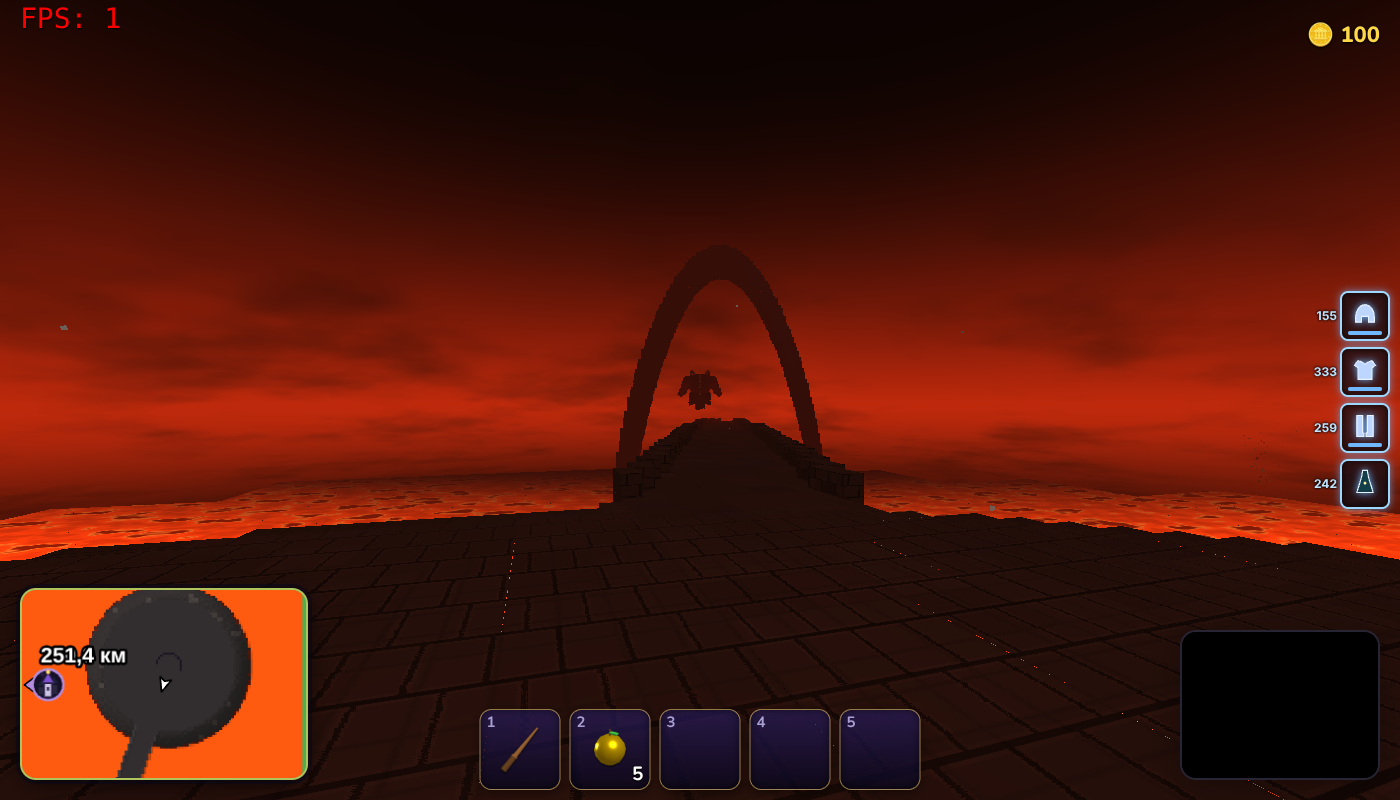
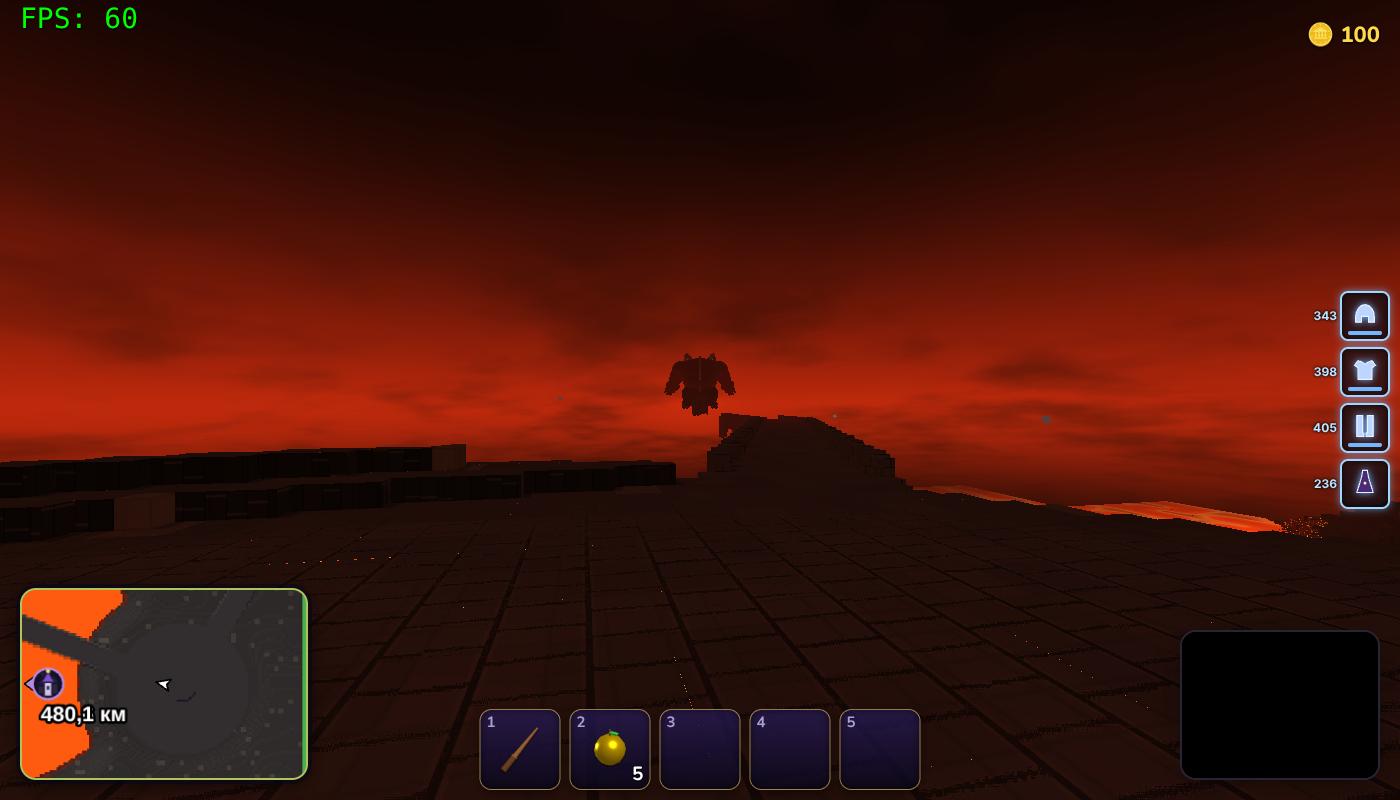
Дьяволос: ад без края — загружен в 4 км от котловины; новый снимок с плато прибытия (750 м)
Claude-Session: https://claude.ai/code/session_01Mpy7conc3GY2y3zL4LDFSX

diff --git a/src/game/Diabolos.js b/src/game/Diabolos.js
@@ -37,6 +37,7 @@ const r2 = (x) => Math.round(x * 100) / 100;
 const clamp = (x, a, b) => Math.max(a, Math.min(b, x));
 const ID = 'diabolos';
 const NET_DT = 0.2;      // с между строками состояния хоста
+const SEEN_R = 4000;     // м: в аду ближе этого — загружен (виден с плато прибытия и издали; ад теперь без края — дальше не держим)
 const PROXY_D = 640;     // м: дальше от камеры — рисуется ближе и меньше в ту же сторону (тот же угол; дальняя плоскость камеры 1000 м)
 const POSE_FAR = 420;    // м: дальше — поза реже
 const CHAIN_NEAR = 520;  // м: дальше цепь не считается (лежит, как легла)
@@ -182,7 +183,7 @@ export class Diabolos {
         if (!this.site) return;
         const ps = this._players();
         let near = Infinity;
-        for (const q of ps) near = Math.min(near, inHell(q.p.x, q.p.z) ? 0 : Math.hypot(q.p.x - this.site.x, q.p.z - this.site.z)); // (в аду — виден отовсюду: гора в 122 м над дымкой; автор не нашёл его с плато прибытия в 1250 м)
+        for (const q of ps) { const dd = Math.hypot(q.p.x - this.site.x, q.p.z - this.site.z); near = Math.min(near, inHell(q.p.x, q.p.z) && dd < SEEN_R ? 0 : dd); } // (в аду — виден отовсюду: гора в 122 м над дымкой; автор не нашёл его с плато прибытия в 1250 м)
         if (g.isDeadLocal && !ps.length && this.d) near = Infinity;
         if (this._remains) { if (near > DEVIL.ACTIVE_R * 1.15) this._unload(); return; } // (убит: только цепь, якорь, сундуки)
         if (!this.d) { if (near < DEVIL.ACTIVE_R && (this.site.y != null || Number.isFinite(this._ground(this.site.x, this.site.z, NaN)))) this._load(); else return; }

diff --git a/CLAUDE.md b/CLAUDE.md
@@ -264,7 +264,7 @@
 Автор: «ОГРОМНЫЙ ДЬЯВОЛ… как страшный монстр, но В 5 РАЗ БОЛЬШЕ… ОГРОМНЫЕ РОГА, КОПЫТА… (позже автор: «немного более худой — накачанный, но массивный»)… одно копыто ПРИКОВАНО цепью… обычно СИДИТ И СПИТ… потревожили — ходит, но цепь держит, он ЗЛИТСЯ… БЕССМЕРТЕН, даже «Дай» не берёт (он его создал)… огонь в 5 раз больше и длиннее драконьего… ШАРЫ ОГНЯ ЛОМАЮТ Protection и Protection Maxima: тебе ничего, но защита сломана — каждый раз заново»; «до 20 анимаций с мимикой… интересный ПЕРСОНАЖ… высовывает язык и троллит».
 - Файлы: `DiabolosRules.js` (числа `DEVIL`, `WAKE`, `MOVES`/`MOVE_IDS`, `FIRE`, `BALL`, цепь `ChainRope` + `leash`, `wakes`, `chooseMove`, бессмертие `DEVIL_VS`/`devilVerdict`, щит `ballVerdict`, место `seatFrom`), `Diabolos.js` (`g.diabolos`: сон/пробуждение/ходьба `crowdStep`, ходы, струя, шары, по мне — `_meSlam/_meBall/_hurtFire`, хват, сеть `dvl`/`dvb`, сохранение `woke`), `DiabolosActs.js` (характер: 26 поступков `ACTS`/`ACT_IDS` — только дописывать, ситуации `SITUATIONS`, `pickAct`, мимика `moodFace/moveFace`), `entities/DiabolosModel.js` (модель на `FarShape`: кожа-шейдер с трещинами жара, «твёрдое», свечение — 3 отрисовки; цепь `InstancedMesh` + якорь = 5; лицо: брови, веки каждого глаза, зрачки, уши, верхняя губа-оскал, ноздри, раздвоенный язык из 3 суставов), `audio/DiabolosSounds.js` (заранее, `SoundManager.playDevil`, тема — `devilTheme`).
 - Мерки: монстр пентаграммы ×5 — 122,5 м до макушки (рога до ~134 м), накачанный и массивный (пресс кубиками, талия уже плеч), тело 21 м (корпус 23 м), группа ×35 от формы ростом 3,5. Струя: дракон силы 1 × 5 = 115 м, у конца 23 м. Шар Ø 6 м, 28–38 м/с, взрыв 14 м. Цепь 44 звена по 3,6 м (шаг 1,82), ход 70 м от столба.
-- Место — `HellMap.hellPlan`: `devilSeat` (котловина r 90), столб цепи в середине (`chainAnchor`) — сидит в 40 м от столба лицом к дороге прибытия (`seatFrom`, `SEAT_OFF`); пока кто-то в аду — загружен всегда (жалоба автора «не нашёл Дьявола»: плато прибытия в 1250 м, было 900), иначе выгружен; пол до воркеров — слой плана + 1. Виден издали: дальше 640 м от камеры рисуется ближе и меньше под тем же углом (`Diabolos._farProxy`, дальняя плоскость камеры 1000 м), туман на нём тоньше и не глухой (`devilFar`, `uSeeFar` 1900 м). Снимок в игре: `node tools/devil-arrival-screenshot.mjs` (ZNS_CHROME=/opt/pw-browsers/chromium-1243/chrome-linux64/chrome).
+- Место — `HellMap.hellPlan`: `devilSeat` (котловина r 90), столб цепи в середине (`chainAnchor`) — сидит в 40 м от столба лицом к дороге прибытия (`seatFrom`, `SEAT_OFF`); пока кто-то в аду ближе 4 км (`SEEN_R`) — загружен (жалоба автора «не нашёл Дьявола»: плато прибытия было в 1250 м, он грузился с 900; теперь прибытие в 600–1000 м), иначе выгружен; пол до воркеров — слой плана + 1. Виден издали: дальше 640 м от камеры рисуется ближе и меньше под тем же углом (`Diabolos._farProxy`, дальняя плоскость камеры 1000 м), туман на нём тоньше и не глухой (`devilFar`, `uSeeFar` 1900 м). Снимок в игре: `node tools/devil-arrival-screenshot.mjs` (ZNS_CHROME=/opt/pw-browsers/chromium-1243/chrome-linux64/chrome).
 - Убить можно ТОЛЬКО божественным мечом (тайна игры; меч — `DivineSword.js`, другая сессия): `g.diabolos.bladeHit(a, b)` → точка касания лезвия/пути меча, `pierce(point, by, {via: 'hand'|'swarm'})` — хост; гость шлёт `pierce`. Смерть 20 с (`DEATH`, `deathPhase`: shock → agony → fall → ash): рана светится и расползается трещинами света (шейдер `devilWound`: `uWound/uWoundK/uDissolve`, без новых источников света), держится за рану, ревёт, бьёт землю, цепь лопается (`ChainRope.free`), на колени, осыпается золой, вспышка, пепел столбом вверх; потом тишина, `diabolosDead` в сохранении (`snapshot.dead`), котловина пуста, цепь лежит, из пепла — 4 сундука босса (`room 'diabolos'` → `Items.lootChest`: сильнейшие пентаграммы, высшие вещи, ключ), ачивка `devilSlayer` (+500, входит в «Высший маг»). Держал игрока — роняет. В Творческом у края котловины (25 м) лежит один божественный меч (`_creativeSword`, id `divine-creative`).
 - Всё остальное его не убивает: удар злит (ярость, на миг сбивает дыхание); каждое «не действует» — с причиной в журнал заклинаний. «Инспириус», «Бум» (и слабее «Тотальное разрушение Максима») — `STUN`/`godStrike`: растерян 2–4 с (без атаки, рёв боли), потом ярость `rage` (+0,35, гаснет за 75 с) — `rageTempo`: паузы и кулдауны короче, струя дольше, хват чаще. Ачивка `devilWoke` «Разбудил дьявола» (+100, `extra`: для «Высшего мага» не нужна — `HIGH_IDS`). Новое заклинание/оружие — проверь категорию в `devilVerdict`; новый поиск целей — `g.diabolos` (`targets/hit/hitAt/hitRay`, в дуэли вид `'Y'`).
 - Хват (`MOVES.grab`, `GRAB`, `GRAB_TARGETS`, `grabPhase`): замах 2 с виден (шаг в сторону — промах, `CATCH_R`), поднимает к морде, держит ~5 с (пальцы сжимаются), хохочет, раздавливает — `Combat.die('diabolos', 'devilCrush')` «Вас раздавил Дьяволос». Щиты, вихри, дары, устойчивость, мантия не спасают; в кулаке не колдовать (только «стоп»). Спасение — честный шанс: «Инспириус»/«Бум» по нему, пока держит, — роняет (−15). В Творческом — выпускает с уроном. Всадник слетает, «Империус» отпускает. Сеть: `grab`/`drop`.
